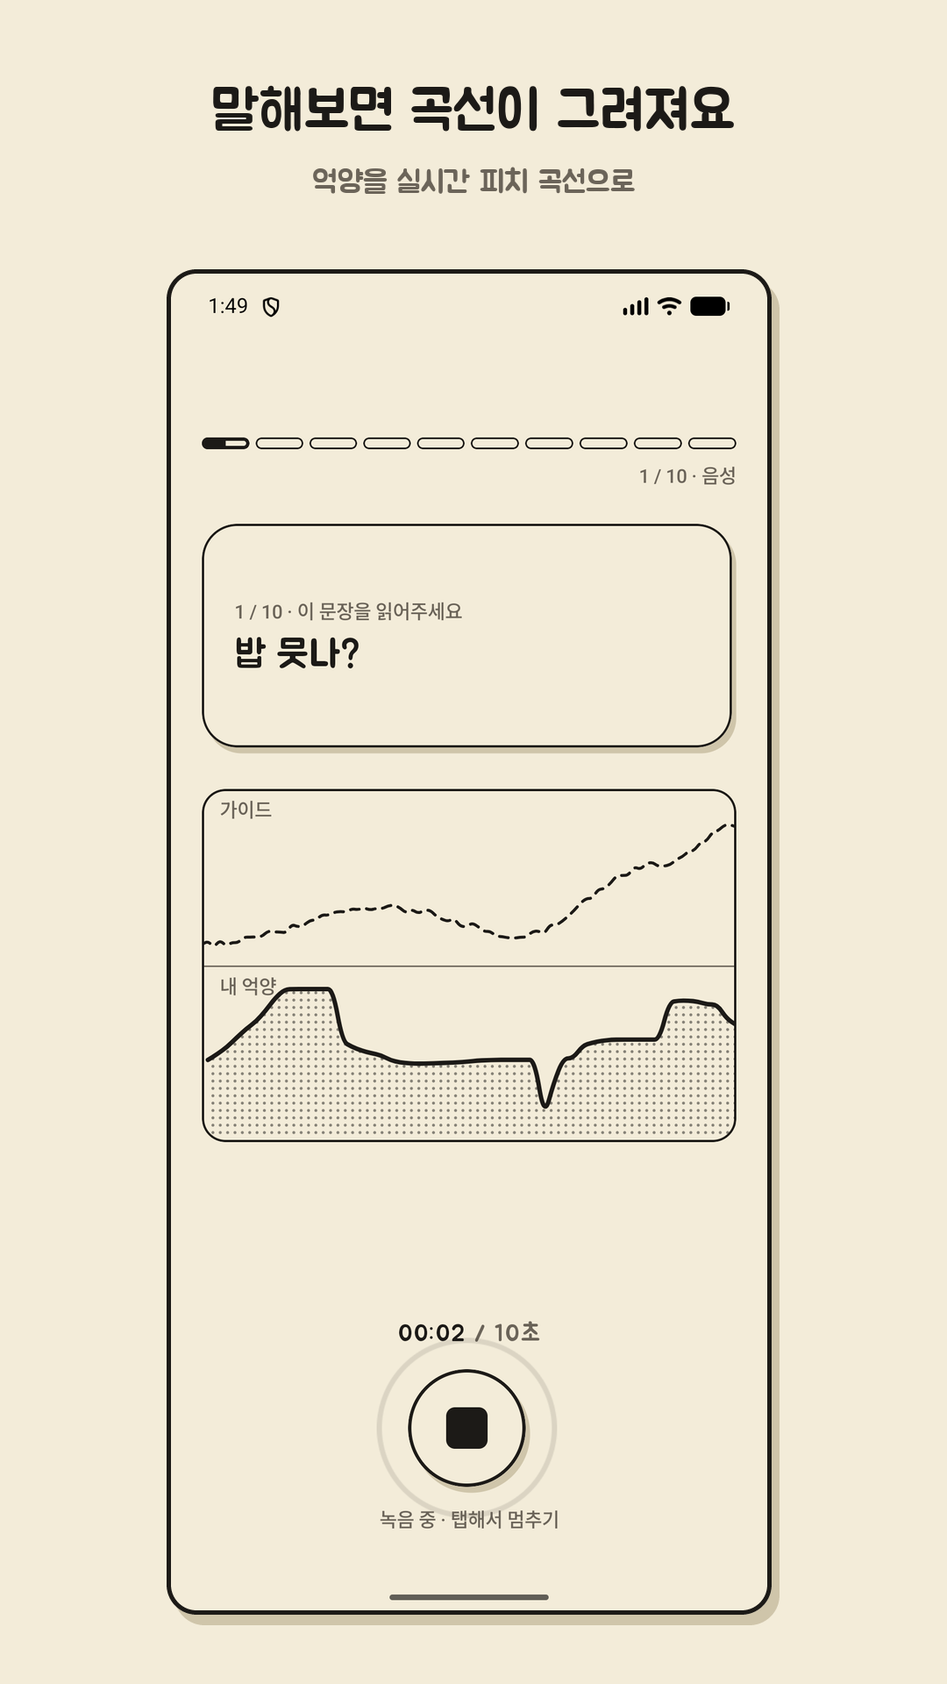
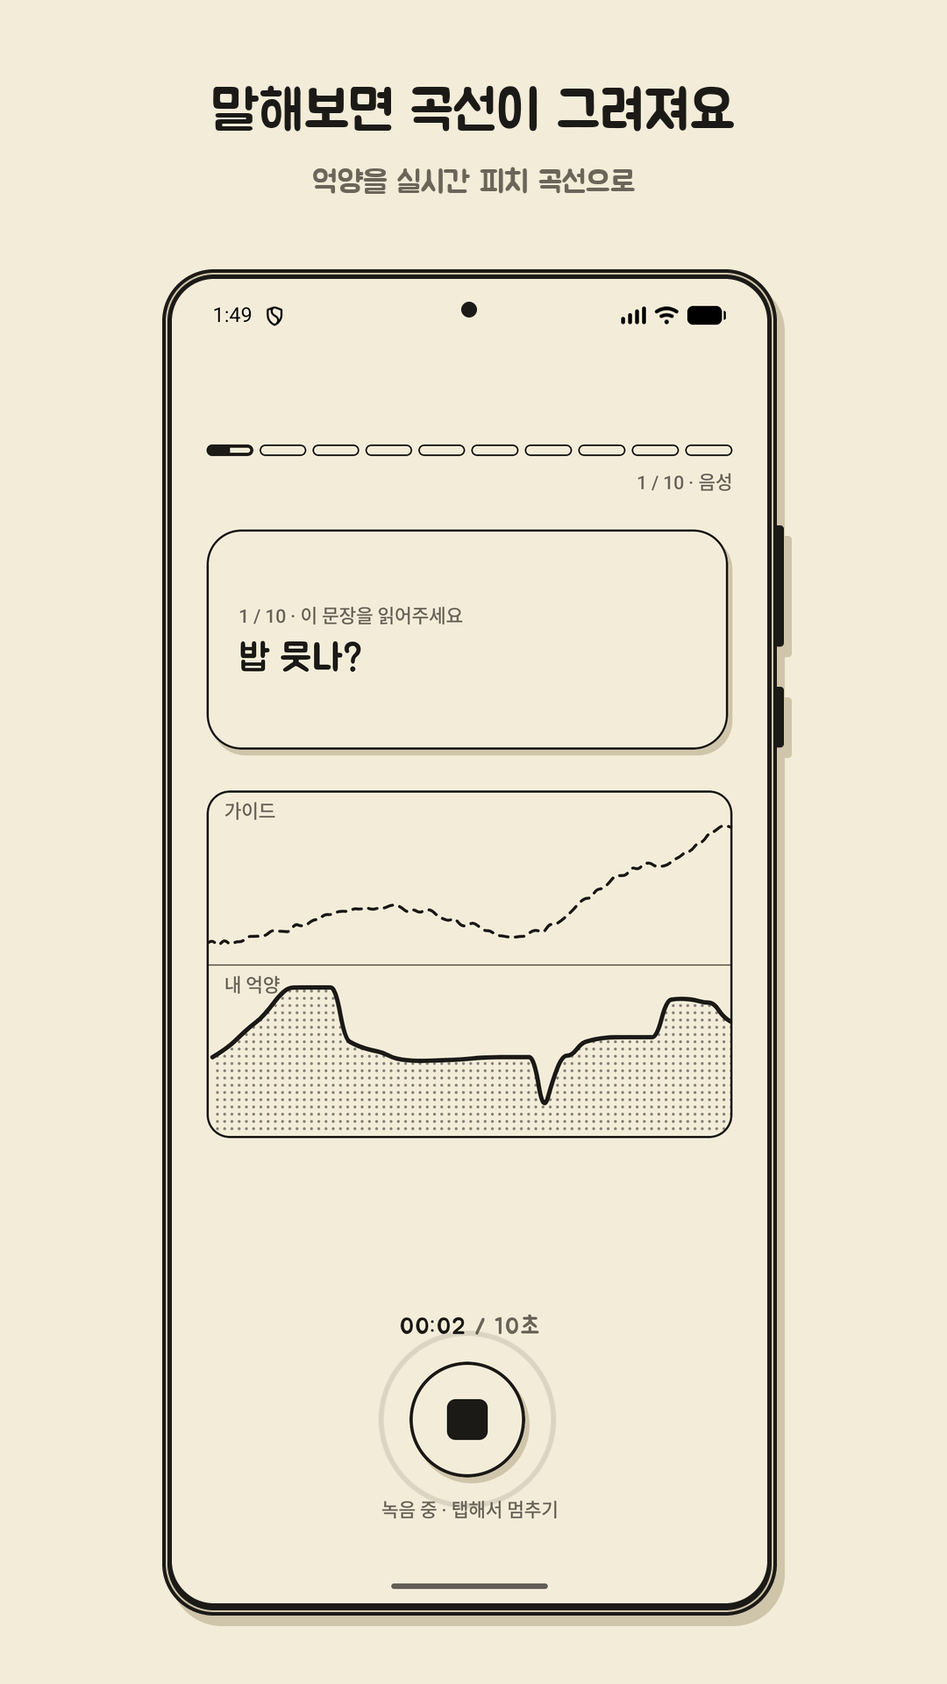
KAN-178 스크린샷 프레임을 기기 실루엣으로 - iOS는 iPhone 17 Pro, Android는 Galaxy S25
- DEVICE_IPHONE_17_PRO / DEVICE_GALAXY_S25 딕셔너리(화면 코너 반경·베젤·펀치홀·버튼 목록)와 PLATFORM_DEVICE 매핑. 기기 교체 = 딕셔너리 수정
- iPhone: 균일 얇은 베젤, 큰 코너, 왼쪽 액션·볼륨 2, 오른쪽 전원·카메라 컨트롤 / Galaxy: 작은 코너, 상단 중앙 펀치홀, 오른쪽 볼륨·전원, 하단 턱
- 본체+버튼을 한 마스크로 그려 그림자를 함께 드리움, 베젤 안쪽 종이그림자 띠(RAIL)로 금속 프레임 표현
- 검증표에 플랫폼별 버튼 여백(≥3%) 행 추가, 14/14 PASS. README 기기 프레임 절 추가

Claude-Session: https://claude.ai/code/session_01Nud2Q8pYYmbEKkf6aeyY5Q

Changed region(s): [[0.1528, 0.1562, 0.8556, 0.9688], [0.3972, 0.7812, 0.5806, 0.9062], [0.2139, 0.3125, 0.4889, 0.4375]]

diff --git a/assets/screenshots/build.py b/assets/screenshots/build.py
@@ -3,8 +3,13 @@
 
 원본은 `raw/android/<화면>.png`(에뮬레이터 캡처)와 `raw/ios/<화면>.png`(시뮬레이터 캡처)다. 그대로
 올려도 규격은 맞지만 네 장이 무슨 화면인지 스토어에서 읽히지 않는다. 그래서 화면마다 같은 틀을
-씌운다 — 크림 배경, 위쪽에 문구 두 줄(Jua), 아래에 캡처를 종이 조각처럼 앉힌 것(둥근 모서리 +
-잉크 테두리 + 오프셋 그림자). `assets/characters/build.py`의 공유 카드와 같은 구성이다.
+씌운다 — 크림 배경, 위쪽에 문구 두 줄(Jua), 아래에 캡처를 실제 기기 실루엣에 끼운 것(베젤 + 옆면
+버튼 + 오프셋 그림자). `assets/characters/build.py`의 공유 카드와 같은 Papercut 구성이다.
+
+실루엣은 플랫폼마다 다르다 — iOS 캡처는 iPhone 17 Pro(네 변 같은 얇은 베젤, 크게 둥근 모서리,
+왼쪽 3 + 오른쪽 2 버튼), Android 캡처는 Galaxy S25(더 각진 모서리, 펀치홀, 오른쪽 2 버튼).
+치수는 전부 `DEVICE_IPHONE_17_PRO` · `DEVICE_GALAXY_S25` 딕셔너리에 비율로 들어 있고,
+`PLATFORM_DEVICE`가 원본 폴더를 거기에 잇는다. **기기를 바꾸려면 딕셔너리만 고친다.**
 
 - Play 스토어      → `out/play/<화면>.png` (1080×1920) ← `raw/android/`
 - App Store 6.7"   → `out/appstore-6.7/<화면>.png` (1290×2796) ← `raw/ios/`
@@ -17,8 +22,8 @@
     /Users/iseongju/accentury/.venv/bin/python assets/screenshots/build.py
     ... --raw <원본 폴더> --out <출력 폴더>   # 임시 캡처로 배치만 확인할 때
 
-Pillow·numpy가 필요하다(위 venv에 있다). 끝에 규격 검증표를 찍는다 — 하나라도 FAIL이면 종료 코드 1,
-SKIP만 있으면 0이다.
+Pillow·numpy가 필요하다(위 venv에 있다). 끝에 규격 검증표를 찍는다 — 규격 12줄 + 플랫폼별 버튼
+여백 2줄. 하나라도 FAIL이면 종료 코드 1, SKIP만 있으면 0이다.
 """
 
 from __future__ import annotations
@@ -65,12 +70,51 @@ SIDE_MARGIN = 0.06  # W — 캡처 좌우 최소 여백
 TEXT_MAX_W = 0.88  # W — 문구가 이보다 넓으면 글자를 줄인다
 HEADLINE_FRAC = 0.058  # W
 SUB_FRAC = 0.032  # W
-MIN_CAPTURE_W = 0.62  # W — 세로로 긴 캡처를 높이에 맞추면 너무 작아진다. 이보다 좁아질 바에는
-#                            폭을 이 값으로 키우고 아래를 프레임 밖으로 흘린다(잘림).
-CORNER_R = 0.05  # 캡처 폭 대비 둥근 모서리 반지름
-OUTLINE_FRAC = 0.005  # W — 잉크 테두리 두께 (최소 4px)
+MIN_DEVICE_W = 0.62  # W — 세로로 긴 기기를 높이에 맞추면 너무 작아진다. 실루엣 폭이 이보다 좁아질
+#                          바에는 폭을 이 값으로 키우고 아래를 프레임 밖으로 흘린다(잘림).
 SHADOW_DX, SHADOW_DY = 0.0080, 0.0107  # W — 오프셋 그림자 (토큰 3:4 비율)
 SS = 4  # 마스크 안티에일리어싱 배수
+
+# --- 기기 실루엣 ----------------------------------------------------------------------------
+# 캡처를 그냥 둥근 네모에 넣으면 "어느 폰인지" 안 읽힌다. 아래 두 딕셔너리가 실루엣을 정한다 —
+# 화면 모서리 반지름·베젤 두께·옆면 버튼 위치. **기기를 갈아끼우려면 딕셔너리만 고친다.**
+# 값은 전부 비율이라 세 출력 규격에서 같은 그림이 나온다.
+BUTTON_THICK = 0.012  # 본체 폭 대비 — 버튼이 본체 밖으로 튀어나온 두께
+BUTTON_R = 0.45  # 버튼 두께 대비 모서리 반지름
+RAIL_DEPTH = 0.34  # 베젤 두께 대비 — 금속 테 띠가 앉는 깊이 (바깥에 잉크 테두리를 남긴다)
+RAIL_W = 0.0026  # 화면 폭 대비 테 띠 두께
+
+# iPhone 17 Pro — 네 변 베젤이 같고, 화면 모서리가 크게 둥글다. 왼쪽 3개(액션·볼륨 업·볼륨 다운)
+# 오른쪽 2개(전원·카메라 컨트롤). 버튼 값은 (변, 본체 높이 대비 시작, 본체 높이 대비 길이).
+DEVICE_IPHONE_17_PRO = {
+    "label": "iPhone 17 Pro",
+    "screen_radius": 0.135,  # 화면 폭 대비
+    "bezel": {"left": 0.026, "right": 0.026, "top": 0.026, "bottom": 0.026},  # 화면 폭 대비
+    "punch_hole": None,  # 다이내믹 아일랜드는 캡처 안에 이미 있다 — 그리지 않는다
+    "buttons": [
+        ("left", 0.160, 0.035),  # 액션 버튼
+        ("left", 0.220, 0.075),  # 볼륨 업
+        ("left", 0.310, 0.075),  # 볼륨 다운
+        ("right", 0.240, 0.110),  # 전원(사이드) 버튼
+        ("right", 0.580, 0.050),  # 카메라 컨트롤
+    ],
+}
+
+# Galaxy S25 — 평평한 알루미늄 테라 모서리가 훨씬 각지고, 베젤은 더 얇되 아래턱이 조금 두껍다.
+# 앞면 카메라는 화면을 뚫은 펀치홀이라 직접 그린다. 버튼은 오른쪽 두 개뿐이다.
+DEVICE_GALAXY_S25 = {
+    "label": "Galaxy S25",
+    "screen_radius": 0.070,
+    "bezel": {"left": 0.016, "right": 0.016, "top": 0.016, "bottom": 0.020},
+    "punch_hole": (0.026, 0.023),  # (화면 폭 대비 지름, 화면 높이 대비 중심 y)
+    "buttons": [
+        ("right", 0.190, 0.090),  # 볼륨 로커 (한 덩어리)
+        ("right", 0.310, 0.045),  # 전원(사이드) 키
+    ],
+}
+
+# 원본 폴더 이름 → 기기. iOS 두 규격은 같은 시뮬레이터 캡처를 쓰니 같은 실루엣을 받는다.
+PLATFORM_DEVICE = {"android": DEVICE_GALAXY_S25, "ios": DEVICE_IPHONE_17_PRO}
 
 # --- 캐릭터 스티커 -------------------------------------------------------------------------
 # 결과 화면에만 "경남 토박이"를 겹쳐 놓는다. `assets/characters/build.py` 산출물이라 없으면 건너뛴다.
@@ -126,25 +170,122 @@ def line_height(font: ImageFont.FreeTypeFont) -> int:
 
 
 # ==========================================================================================
-# 2. 프레임 한 장
+# 2. 기기 실루엣
 # ==========================================================================================
 
 
-def place(cap_w: int, cap_h: int, top: int, W: int, H: int) -> tuple[int, int, int, int]:
-    """캡처를 앉힐 (x, y, 폭, 높이). 기본은 전체가 다 보이게 맞추고, 그러면 폭이
-    MIN_CAPTURE_W보다 좁아질 때만 폭을 키워 아래를 프레임 밖으로 흘린다."""
+def geometry(device: dict, sw: int, sh: int) -> dict:
+    """화면 크기(sw × sh)에서 실루엣 치수를 전부 뽑는다. 길이는 모두 화면 폭 기준이라
+    출력 규격이 달라도 비율이 같다. 캔버스는 본체 + 좌우 버튼 돌출분이다."""
+    b = device["bezel"]
+    bl, br = max(1, round(sw * b["left"])), max(1, round(sw * b["right"]))
+    bt, bb = max(1, round(sw * b["top"])), max(1, round(sw * b["bottom"]))
+    body_w, body_h = sw + bl + br, sh + bt + bb
+    out = max(2, round(body_w * BUTTON_THICK))
+    screen_r = max(1, round(sw * device["screen_radius"]))
+    return {
+        "sw": sw,
+        "sh": sh,
+        "body_w": body_w,
+        "body_h": body_h,
+        "body_r": screen_r + bl,  # 동심 — 바깥 반지름 = 화면 반지름 + 베젤
+        "screen_r": screen_r,
+        "out": out,
+        "canvas_w": body_w + 2 * out,
+        "canvas_h": body_h,
+        "screen_xy": (out + bl, bt),
+        "bezel": bl,
+        "rail": max(1, round(sw * RAIL_W)),
+    }
+
+
+def silhouette(device: dict, g: dict) -> Image.Image:
+    """본체 + 버튼을 한 덩어리로 그린 마스크. 그림자는 이걸 그대로 옮겨 찍는다 —
+    따로 그리면 버튼 그림자가 어긋난다."""
+    W, H = g["canvas_w"], g["canvas_h"]
+    big = Image.new("L", (W * SS, H * SS), 0)
+    d = ImageDraw.Draw(big)
+    x0, x1 = g["out"] * SS, (g["out"] + g["body_w"]) * SS - 1
+    d.rounded_rectangle([x0, 0, x1, H * SS - 1], radius=g["body_r"] * SS, fill=255)
+    br = max(1, round(g["out"] * BUTTON_R)) * SS
+    for side, top_f, h_f in device["buttons"]:
+        y0 = round(top_f * g["body_h"]) * SS
+        y1 = y0 + max(1, round(h_f * g["body_h"])) * SS
+        span = [0, y0, x0 + g["out"] * SS, y1] if side == "left" else [x1 - g["out"] * SS, y0, W * SS - 1, y1]
+        d.rounded_rectangle(span, radius=br, fill=255)  # 본체 안으로 겹쳐 그려 이음매를 없앤다
+    return big.resize((W, H), Image.BOX)
+
+
+def button_extent(device: dict, g: dict) -> tuple[int, int] | None:
+    """버튼이 실제로 차지하는 x 범위(캔버스 기준). 버튼이 없는 변은 빼고 잰다 —
+    검증표에서 "가장 바깥 버튼 픽셀이 프레임 안에 있나"를 이 값으로 본다."""
+    xs: list[int] = []
+    for side, _, _ in device["buttons"]:
+        xs.append(0 if side == "left" else g["canvas_w"] - 1)
+    return (min(xs), max(xs)) if xs else None
+
+
+def draw_device(cap: Image.Image, device: dict, g: dict) -> tuple[Image.Image, Image.Image]:
+    """(기기 그림 RGBA, 실루엣 마스크). 본체는 잉크 한 색이고, 베젤 안쪽에 종이 그림자색 띠를
+    한 줄 넣어 금속 테를 암시한다. 화면에는 캡처를 그대로 앉힌다."""
+    W, H = g["canvas_w"], g["canvas_h"]
+    mask = silhouette(device, g)
+    dev = Image.new("RGBA", (W, H), (0, 0, 0, 0))
+    dev.paste(Image.new("RGB", (W, H), INK), (0, 0), mask)
+
+    # 금속 테 띠 — 베젤 안쪽 34% 깊이에 한 줄. 크림으로 넣으면 베젤이 두 겹으로 갈라져 보여서
+    # 종이 그림자색을 쓴다. 바깥에는 잉크가 남아 Papercut 테두리가 끊기지 않는다.
+    inset = max(1, round(g["bezel"] * RAIL_DEPTH))
+    ring = ImageChops.subtract(
+        rounded_mask(g["body_w"], g["body_h"], g["body_r"], inset),
+        rounded_mask(g["body_w"], g["body_h"], g["body_r"], inset + g["rail"]),
+    )
+    dev.paste(Image.new("RGB", (g["body_w"], g["body_h"]), PAPER_SHADOW), (g["out"], 0), ring)
+
+    # 화면 = 캡처. 상태바·홈 인디케이터·다이내믹 아일랜드는 캡처 안에 이미 있다.
+    sw, sh = g["sw"], g["sh"]
+    dev.paste(resize_rgba(cap, sw, sh).convert("RGB"), g["screen_xy"], rounded_mask(sw, sh, g["screen_r"]))
+
+    # 펀치홀(Galaxy) — 화면을 뚫은 앞면 카메라라 캡처 위에 찍는다.
+    if device["punch_hole"]:
+        dia_f, cy_f = device["punch_hole"]
+        dia = max(2, round(sw * dia_f))
+        cx = g["screen_xy"][0] + sw // 2
+        cy = g["screen_xy"][1] + round(sh * cy_f)
+        hole = rounded_mask(dia, dia, dia // 2)
+        dev.paste(Image.new("RGB", (dia, dia), INK), (cx - dia // 2, cy - dia // 2), hole)
+
+    return dev, mask
+
+
+# ==========================================================================================
+# 3. 프레임 한 장
+# ==========================================================================================
+
+
+def place(cap_w: int, cap_h: int, device: dict, top: int, W: int, H: int) -> tuple[int, int]:
+    """기기를 앉힐 화면 크기 (폭, 높이). 기본은 실루엣 전체가 다 보이게 맞추고, 그러면 폭이
+    MIN_DEVICE_W보다 좁아질 때만 폭을 키워 아래를 프레임 밖으로 흘린다.
+
+    베젤·버튼도 화면 폭에 비례하니, 실루엣 폭 = 화면 폭 × kw, 실루엣 높이 = 화면 폭 × kh 로
+    한 번에 풀린다. 버튼이 잘리지 않게 여백은 실루엣(=버튼 포함) 기준으로 잡는다."""
+    b = device["bezel"]
+    kw = (1 + b["left"] + b["right"]) * (1 + 2 * BUTTON_THICK)  # 화면 폭 → 실루엣 폭
+    kh = cap_h / cap_w + b["top"] + b["bottom"]  # 화면 폭 → 실루엣 높이
     dx, dy = round(W * SHADOW_DX), round(W * SHADOW_DY)
     max_w = W - 2 * round(W * SIDE_MARGIN) - dx
     avail_h = H - top - round(H * BOTTOM_PAD) - dy
 
-    scale = min(max_w / cap_w, avail_h / cap_h)
-    if scale * cap_w < W * MIN_CAPTURE_W:
-        scale = min(max_w / cap_w, W * MIN_CAPTURE_W / cap_w)
-    pw, ph = max(1, round(cap_w * scale)), max(1, round(cap_h * scale))
-    return (W - pw - dx) // 2, top, pw, ph
+    sw = min(max_w / kw, avail_h / kh)
+    if sw * kw < W * MIN_DEVICE_W:
+        sw = min(max_w / kw, W * MIN_DEVICE_W / kw)
+    return max(1, round(sw)), max(1, round(sw * cap_h / cap_w))
 
 
-def render(cap: Image.Image, screen: str, W: int, H: int, sticker: Image.Image | None) -> Image.Image:
+def render(
+    cap: Image.Image, screen: str, device: dict, W: int, H: int, sticker: Image.Image | None
+) -> tuple[Image.Image, float | None]:
+    """(프레임, 가장 바깥 버튼 픽셀의 좌우 여백 중 작은 쪽 / W). 여백은 검증표가 본다."""
     frame = Image.new("RGBA", (W, H), CREAM + (255,))
     draw = ImageDraw.Draw(frame)
 
@@ -158,17 +299,18 @@ def render(cap: Image.Image, screen: str, W: int, H: int, sticker: Image.Image |
     draw.text((W // 2, y), sub, font=sub_font, fill=MUTED, anchor="ma")
     y += line_height(sub_font) + round(H * BLOCK_GAP)
 
-    # 캡처 = 종이 조각. 그림자 → 캡처 → 잉크 테두리 순으로 얹는다.
-    x, y, pw, ph = place(cap.width, cap.height, y, W, H)
-    radius = max(1, round(pw * CORNER_R))
-    outline = max(4, round(W * OUTLINE_FRAC))
-    mask = rounded_mask(pw, ph, radius)
-    ring = ImageChops.subtract(mask, rounded_mask(pw, ph, radius, inset=outline))
-
+    # 기기 = 종이 조각. 그림자(실루엣을 통째로 옮긴 것) → 기기 순으로 얹는다.
+    sw, sh = place(cap.width, cap.height, device, y, W, H)
+    g = geometry(device, sw, sh)
+    dev, mask = draw_device(cap, device, g)
     dx, dy = round(W * SHADOW_DX), round(W * SHADOW_DY)
-    frame.paste(Image.new("RGB", (pw, ph), PAPER_SHADOW), (x + dx, y + dy), mask)
-    frame.paste(resize_rgba(cap, pw, ph).convert("RGB"), (x, y), mask)
-    frame.paste(Image.new("RGB", (pw, ph), INK), (x, y), ring)
+    x = (W - g["canvas_w"] - dx) // 2
+
+    frame.paste(Image.new("RGB", (g["canvas_w"], g["canvas_h"]), PAPER_SHADOW), (x + dx, y + dy), mask)
+    frame.alpha_composite(dev, (x, y))
+
+    span = button_extent(device, g)
+    margin = min(x + span[0], W - 1 - (x + span[1])) / W if span else None
 
     # 캐릭터 스티커 — 캡처 오른쪽 아래 모서리에 걸치게 둔다.
     if sticker is not None and screen == STICKER_SCREEN:
@@ -176,7 +318,7 @@ def render(cap: Image.Image, screen: str, W: int, H: int, sticker: Image.Image |
         fig = resize_rgba(sticker, sw, max(1, round(sticker.height * sw / sticker.width)))
         frame.alpha_composite(fig, (W - round(W * STICKER_RIGHT) - fig.width, H - round(H * STICKER_BOTTOM) - fig.height))
 
-    return frame.convert("RGB")
+    return frame.convert("RGB"), margin
 
 
 def save_png_under(img: Image.Image, path: Path, limit: int) -> int:
@@ -189,8 +331,10 @@ def save_png_under(img: Image.Image, path: Path, limit: int) -> int:
 
 
 # ==========================================================================================
-# 3. 검증
+# 4. 검증
 # ==========================================================================================
+
+BUTTON_MARGIN_MIN = 0.03  # W — 가장 바깥 버튼 픽셀이 프레임 변에서 이만큼은 떨어져 있어야 한다
 
 
 def validate(path: Path, W: int, H: int) -> tuple[str, bool | None]:
@@ -220,15 +364,32 @@ def main() -> None:
     print(f"캐릭터 스티커: {'native.webp' if sticker else '없음 (건너뜀)'}\n")
 
     rows: list[tuple[str, str, bool | None]] = []
+    margins: dict[str, list[float]] = {}
     for out_name, raw_name, W, H in OUTPUTS:
+        device = PLATFORM_DEVICE[raw_name]
         for screen in SCREENS:
             src = args.raw / raw_name / f"{screen}.png"
             dst = args.out / out_name / f"{screen}.png"
             if src.exists():
                 with Image.open(src) as cap:
-                    save_png_under(render(cap.convert("RGB"), screen, W, H, sticker), dst, MAX_BYTES)
+                    frame, margin = render(cap.convert("RGB"), screen, device, W, H, sticker)
+                save_png_under(frame, dst, MAX_BYTES)
+                if margin is not None:
+                    margins.setdefault(raw_name, []).append(margin)
             detail, ok = validate(dst if src.exists() else src, W, H)
             rows.append((f"{out_name}/{screen}", detail, ok))
+
+    # 플랫폼마다 한 줄 — 버튼이 프레임 밖으로 나가거나 변에 붙지 않았나. 실루엣이 넓어지면
+    # 여기부터 FAIL이 뜨니 MIN_DEVICE_W·SIDE_MARGIN을 줄이라는 신호다.
+    for raw_name, device in PLATFORM_DEVICE.items():
+        got = margins.get(raw_name)
+        label = f"버튼 여백/{raw_name}"
+        if not got:
+            rows.append((label, f"{device['label']} 원본 캡처 없음", None))
+            continue
+        worst = min(got)
+        detail = f"{device['label']} 가장 바깥 버튼 여백 {worst * 100:.1f}% (≥{BUTTON_MARGIN_MIN * 100:.0f}%)"
+        rows.append((label, detail, worst >= BUTTON_MARGIN_MIN))
 
     width = max(len(label) for label, _, _ in rows)
     for label, detail, ok in rows:

diff --git a/assets/screenshots/README.md b/assets/screenshots/README.md
@@ -1,8 +1,8 @@
 # 스토어 스크린샷 (KAN-178)
 
 Play 스토어·App Store에 올리는 스크린샷 네 장의 **원본 캡처와 생성 스크립트**가 여기 있다.
-`build.py`가 기기 캡처 한 장에 같은 프레임(크림 배경 + 문구 두 줄 + 종이 조각처럼 앉힌 캡처)을 씌워
-규격별 파생본을 만든다 — **생성물은 손으로 고치지 않는다.**
+`build.py`가 기기 캡처 한 장에 같은 프레임(크림 배경 + 문구 두 줄 + 실제 기기 실루엣에 끼운 캡처)을
+씌워 규격별 파생본을 만든다 — **생성물은 손으로 고치지 않는다.**
 
 ## 폴더 구성
 
@@ -25,15 +25,34 @@ out/appstore-6.1/<화면>.png  App Store 6.1" 1179×2556       (생성물)
 - 바탕은 크림 `#F3ECD9` 한 색이다. 앱 화면과 같은 종이 위에 캡처를 오려 붙인 것으로 읽히게 한다
 - 위쪽에 문구 두 줄 — 헤드라인은 Jua 잉크 `#1C1A17`, 보조 줄은 Jua 작게 `#6B6459`. 가운데 정렬이고,
   프레임 폭의 88%를 넘으면 글자 크기를 줄인다(잘린 문구가 스토어에 걸리는 게 최악이다)
-- 아래에 캡처. 둥근 모서리(캡처 폭의 5%) + 잉크 테두리 + `#CFC5AA` 오프셋 그림자 — `docs/wiki/design-tokens.md`
-  §2의 Papercut 규칙(3px 4px 0)을 프레임 폭 비율로 옮긴 값이다
+- 아래에 캡처. 그냥 둥근 네모가 아니라 **실제 기기 실루엣**에 끼운다(아래 표) — 잉크 베젤 + 옆면 버튼 +
+  `#CFC5AA` 오프셋 그림자. 그림자는 본체와 버튼을 한 덩어리로 묶은 마스크를 그대로 옮겨 찍는다.
+  `docs/wiki/design-tokens.md` §2의 Papercut 규칙(3px 4px 0)을 프레임 폭 비율로 옮긴 값이다
 - `04-result`에만 캐릭터 스티커(`web/src/assets/characters/native.webp`, 경남 토박이)를 오른쪽 아래
   모서리에 걸쳐 놓는다. 그 파일이 없으면 스티커 없이 만든다(`assets/characters/build.py` 산출물이다)
 
+### 기기 실루엣
+
+플랫폼마다 다른 폰을 쓴다. 스토어에서 그 폰으로 찍은 것처럼 읽혀야 하기 때문이다.
+
+| 원본 폴더 | 기기 | 화면 모서리 | 베젤 | 버튼 | 그 밖에 |
+| --- | --- | --- | --- | --- | --- |
+| `raw/ios/` | iPhone 17 Pro | 화면 폭의 13.5% | 네 변 모두 2.6% | 왼쪽 3(액션·볼륨 업·볼륨 다운) · 오른쪽 2(전원·카메라 컨트롤) | 다이내믹 아일랜드·홈 인디케이터는 캡처 안에 있어 그리지 않는다 |
+| `raw/android/` | Galaxy S25 | 화면 폭의 7% | 좌우·위 1.6%, 아래턱 2.0% | 오른쪽 2(볼륨 로커·전원) | 앞면 카메라 펀치홀을 화면 위에 직접 찍는다 |
+
+치수는 `build.py`의 `DEVICE_IPHONE_17_PRO` · `DEVICE_GALAXY_S25` 딕셔너리에 전부 **화면 폭 대비 비율**로
+들어 있고, `PLATFORM_DEVICE = {"android": ..., "ios": ...}`가 원본 폴더를 기기에 잇는다. **기기를 갈아끼우려면
+그 딕셔너리만 고친다** — 버튼은 `(변, 본체 높이 대비 시작, 본체 높이 대비 길이)` 세 값이다. 비율이라 세 출력
+규격에서 같은 그림이 나온다.
+
+베젤 안쪽에는 `#CFC5AA` 띠를 한 줄 넣어 금속 테를 암시한다(`RAIL_DEPTH`·`RAIL_W`). 크림으로 넣어 봤더니
+베젤이 두 겹으로 갈라져 보여서 종이 그림자색을 썼다.
+
 캡처는 **전체가 다 보이는 크기**로 넣는다. 좌우 여백이 6% 이상이면 잘라내지 않는다는 뜻이라, 9:16
-프레임(Play)에 20:9 캡처를 넣으면 좌우가 18%씩 비고 캡처는 프레임 폭의 64%가 된다. 그림 아래쪽이
+프레임(Play)에 20:9 캡처를 넣으면 좌우가 16%씩 비고 기기는 프레임 폭의 66%가 된다. 그림 아래쪽이
 잘려서 버튼이 사라지는 것보다 낫다고 봤다. 캡처가 더 길어져 폭이 프레임의 62% 아래로 떨어질 때만
-폭을 62%로 키우고 아래를 프레임 밖으로 흘린다(`MIN_CAPTURE_W`).
+폭을 62%로 키우고 아래를 프레임 밖으로 흘린다(`MIN_DEVICE_W`). 여백·최소 폭은 모두 **버튼을 포함한
+실루엣** 기준이라 버튼이 잘리는 일은 없다 — 검증표 마지막 두 줄이 그걸 본다.
 
 Android 상태바·내비게이션 바는 **자르지 않는다.** Play가 허용하고, 자르기 시작하면 기기마다 기준이
 갈린다. 크기만 맞춘다.
@@ -78,8 +97,9 @@ xcrun simctl io booted screenshot assets/screenshots/raw/ios/01-intro.png
 ... assets/screenshots/build.py --raw <원본 폴더> --out <출력 폴더>
 ```
 
-Pillow·numpy가 필요하다(위 venv에 있다). 끝에 규격 검증표를 찍는다 — 파일 존재·정확한 픽셀 크기·
-알파 없는 RGB·모서리 색이 크림인지·8MB 이하. 하나라도 FAIL이면 종료 코드 1이고, SKIP만 있으면 0이다.
+Pillow·numpy가 필요하다(위 venv에 있다). 끝에 검증표를 찍는다 — 규격 12줄(파일 존재·정확한 픽셀 크기·
+알파 없는 RGB·모서리 색이 크림인지·8MB 이하)과 플랫폼별 버튼 여백 2줄(가장 바깥 버튼 픽셀이 프레임 변에서
+3% 이상 떨어져 있는지). 하나라도 FAIL이면 종료 코드 1이고, SKIP만 있으면 0이다.
 
 ## 규격 (업로드 기준)
 
